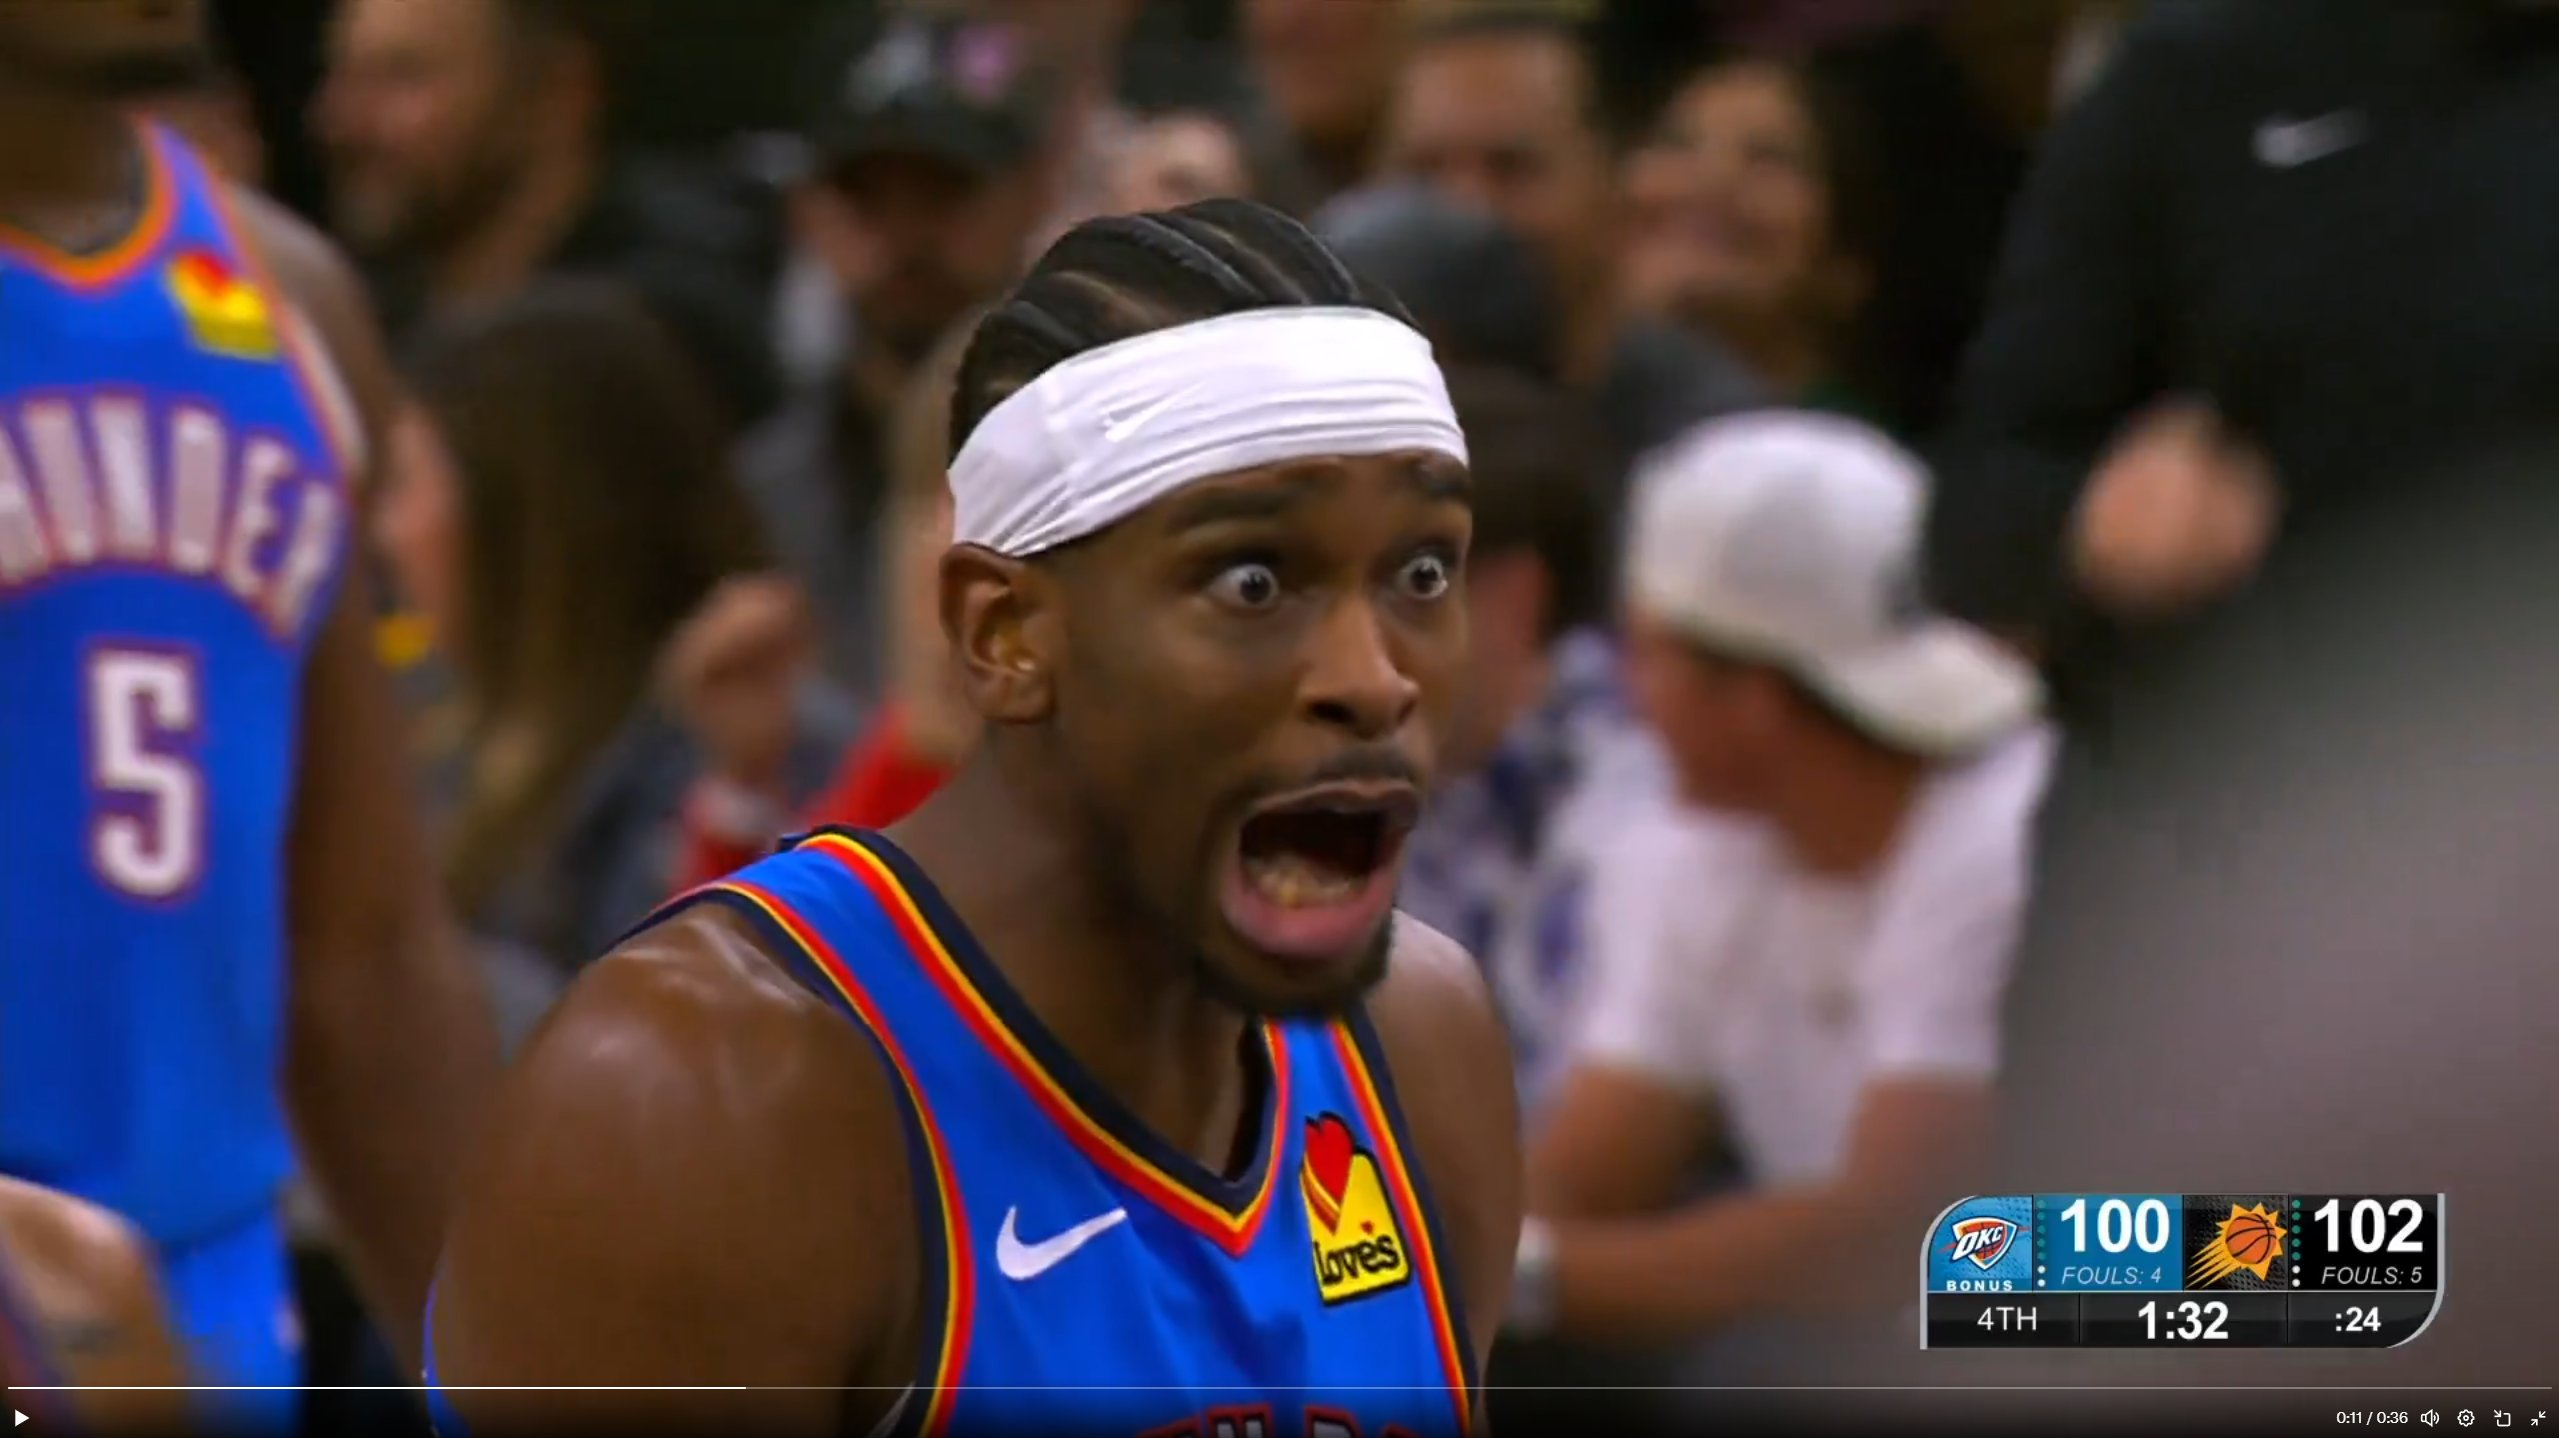
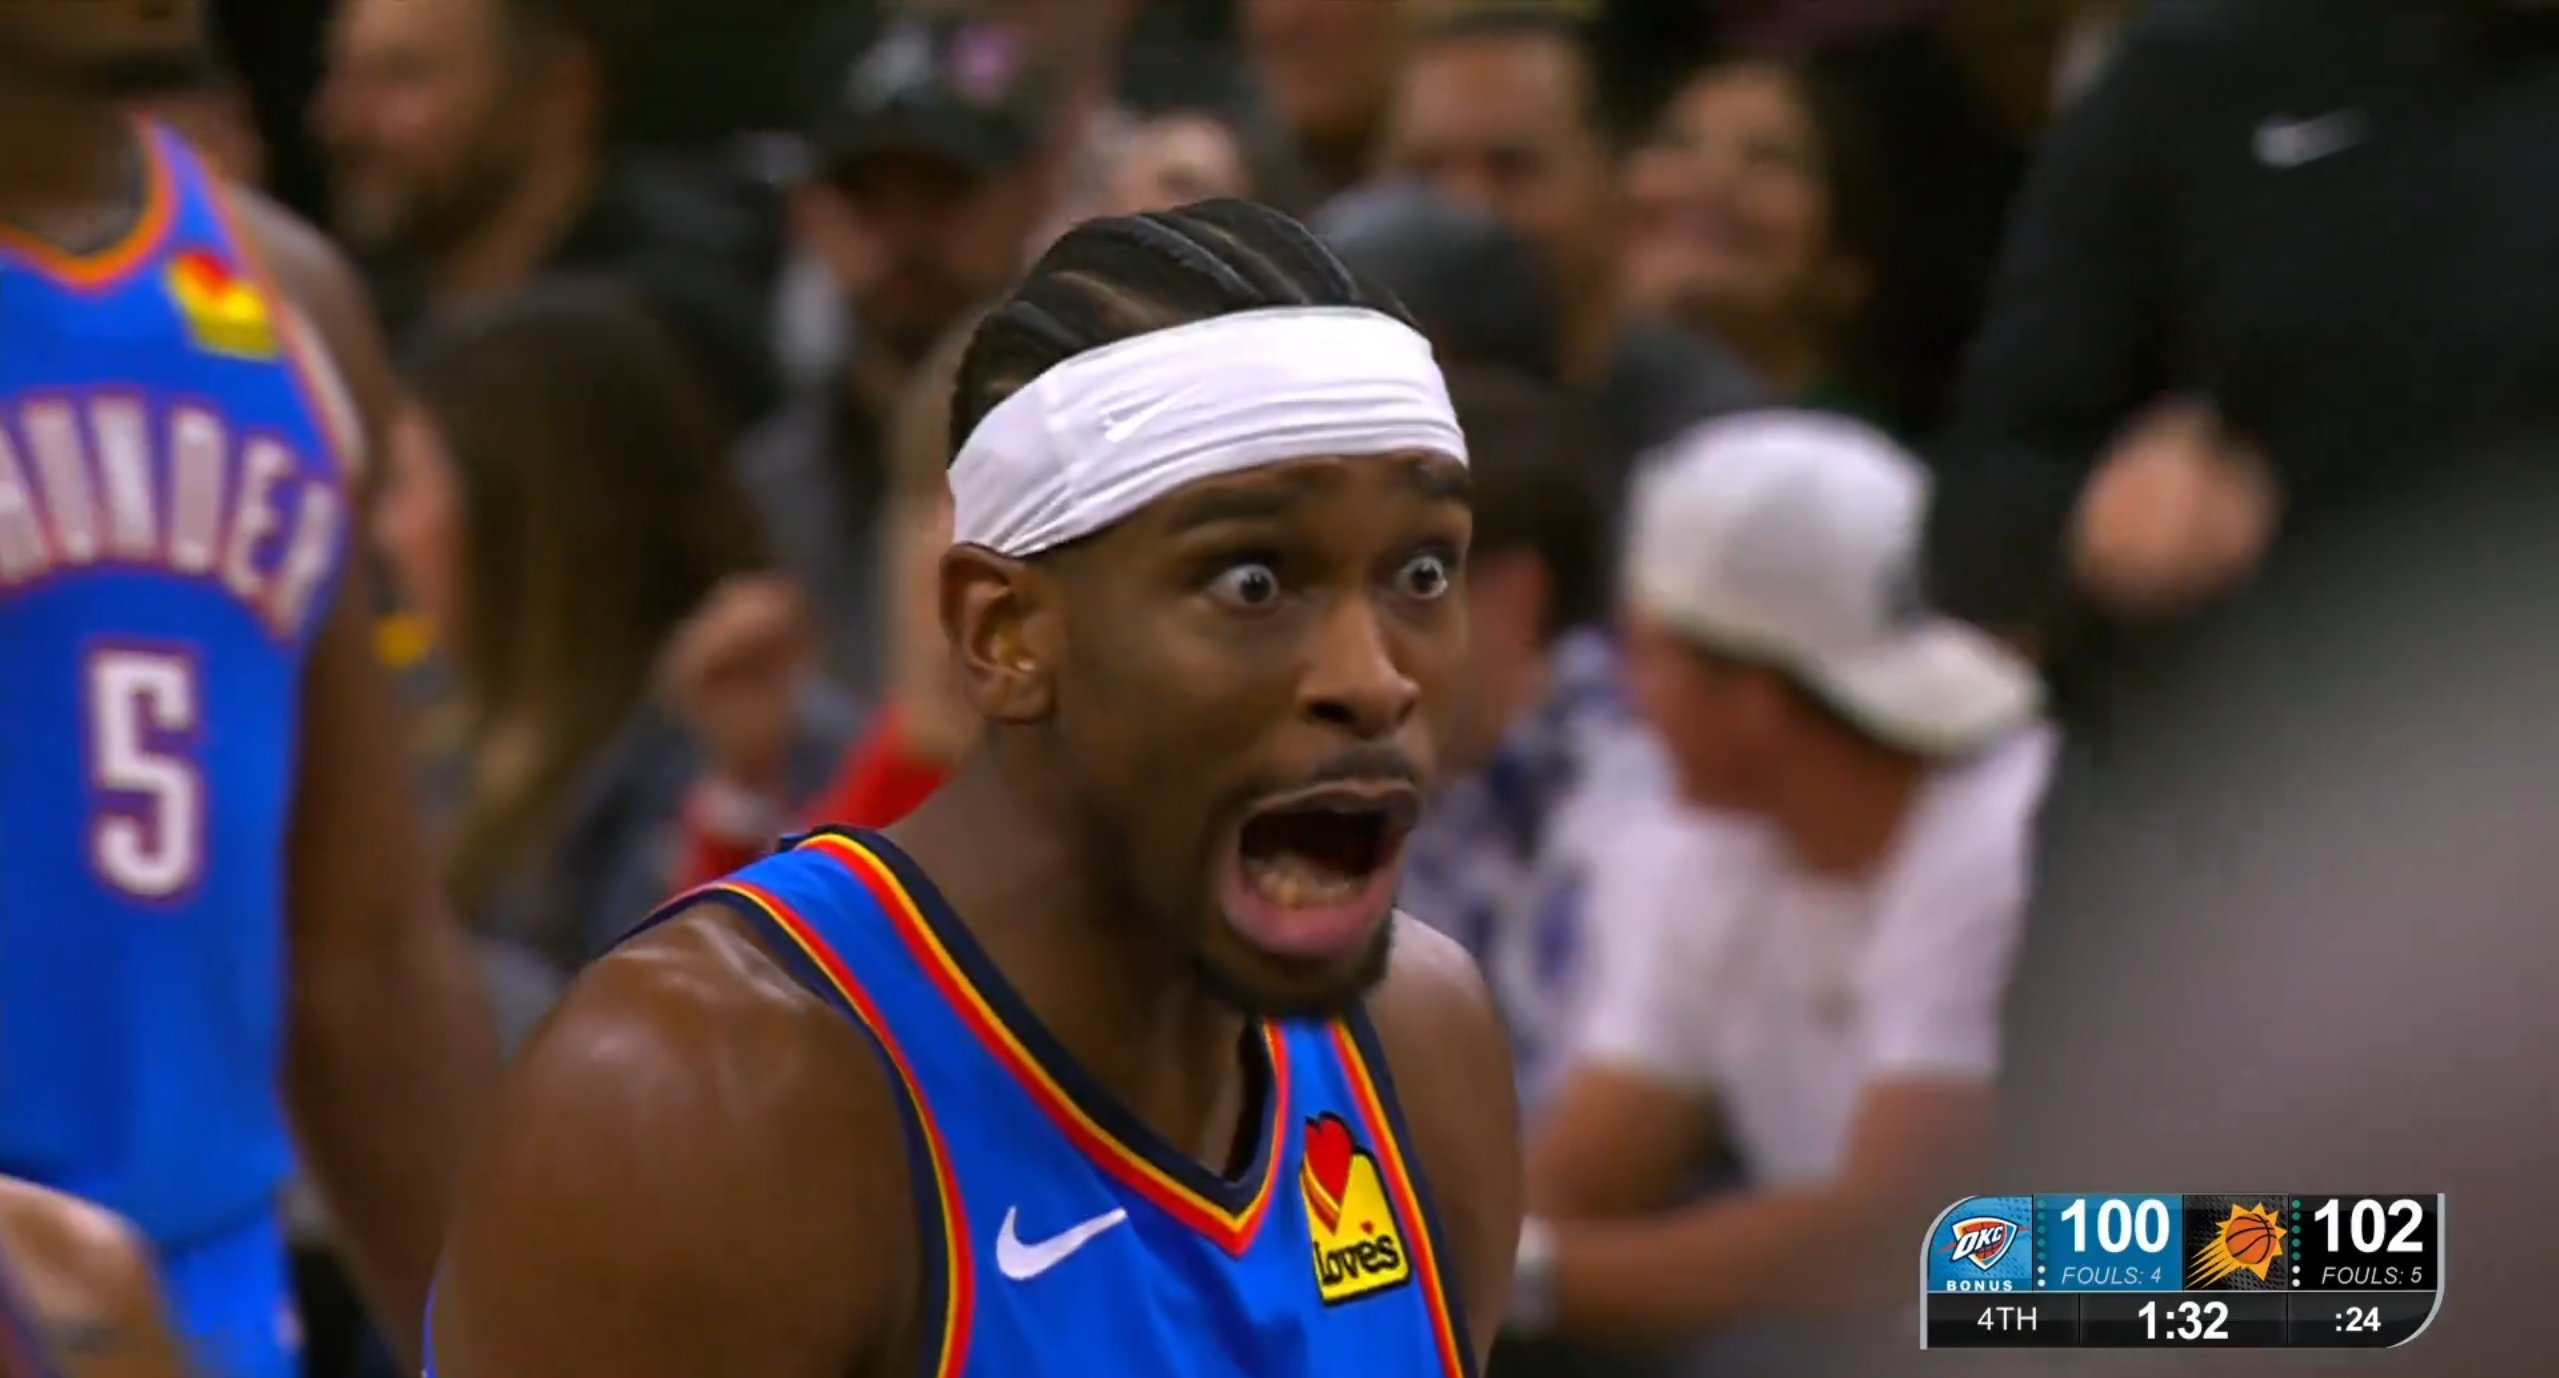
Single-window UI + faster cooldown + crop default image
- Webcam preview now overlays in the bottom-right of the main window instead of opening a second window
- Cooldown between detections dropped from 10s to 2s
- Async player teardown so the transition back to the default image isn't blocked by ffpyplayer thread shutdown
- Trim 60px off the bottom of default.png

diff --git a/main.py b/main.py
@@ -1,4 +1,5 @@
 import random
+import threading
 import time
 from pathlib import Path
 
@@ -17,10 +18,10 @@ VIDEO_EXTS = {'.mp4', '.mov', '.mkv', '.avi', '.webm', '.m4v'}
 
 DISPLAY_W, DISPLAY_H = 1600, 900
 WEBCAM_W, WEBCAM_H = 480, 360
-COOLDOWN = 10.0
+WEBCAM_MARGIN = 20
+COOLDOWN = 2.0
 
 MAIN_WINDOW = "SGA Flopping"
-WEBCAM_WINDOW = "Webcam preview"
 
 
 def draw_skeleton(img, landmarks):
@@ -32,6 +33,16 @@ def draw_skeleton(img, landmarks):
     for i, (x, y) in enumerate(pts):
         if landmarks[i].visibility > 0.3:
             cv2.circle(img, (x, y), 3, (0, 200, 255), -1)
+
+
+def overlay_webcam(canvas, preview):
+    ph, pw = preview.shape[:2]
+    ch, cw = canvas.shape[:2]
+    x = cw - pw - WEBCAM_MARGIN
+    y = ch - ph - WEBCAM_MARGIN
+    cv2.rectangle(canvas, (x - 2, y - 2), (x + pw + 1, y + ph + 1),
+                  (255, 255, 255), 2)
+    canvas[y:y + ph, x:x + pw] = preview
 
 
 def ensure_assets():
@@ -74,6 +85,12 @@ def pick_video(pool, last=None):
     return random.choice(choices)
 
 
+def close_player_async(player):
+    if player is None:
+        return
+    threading.Thread(target=player.close, daemon=True).start()
+
+
 def main():
     ensure_assets()
 
@@ -85,7 +102,7 @@ def main():
     print(f"Pool A (foul bait):  {len(pool_a)} videos in {POOL_A_DIR}")
     print(f"Pool B (free throw): {len(pool_b)} videos in {POOL_B_DIR}")
     print("Drop .mp4/.mov/.mkv files into those folders, then re-run if needed.")
-    print("Keys:  Q = quit  |  R = reset state  |  H = toggle webcam window")
+    print("Keys:  Q = quit  |  R = reset state  |  H = toggle webcam overlay")
 
     cap = cv2.VideoCapture(0, cv2.CAP_DSHOW)
     if not cap.isOpened():
@@ -100,12 +117,8 @@ def main():
 
     cv2.namedWindow(MAIN_WINDOW, cv2.WINDOW_NORMAL)
     cv2.resizeWindow(MAIN_WINDOW, DISPLAY_W, DISPLAY_H)
-    cv2.namedWindow(WEBCAM_WINDOW, cv2.WINDOW_NORMAL)
-    cv2.resizeWindow(WEBCAM_WINDOW, WEBCAM_W, WEBCAM_H)
     webcam_visible = True
 
-    # States: IDLE_A -> PLAYING_A -> COOLDOWN_TO_B1 -> IDLE_B1 -> PLAYING_B1
-    #      -> COOLDOWN_TO_B2 -> IDLE_B2 -> PLAYING_B2 -> COOLDOWN_TO_A -> IDLE_A
     state = "IDLE_A"
     state_entered = time.monotonic()
     player = None
@@ -147,6 +160,41 @@ def main():
                 rgb = cv2.cvtColor(frame, cv2.COLOR_BGR2RGB)
                 landmarks = pose.detect(rgb)
 
+            now = time.monotonic()
+
+            if state == "IDLE_A":
+                canvas = default_canvas.copy()
+                if shot.update(landmarks):
+                    start_video(pool_a, "A", "A")
+            elif state == "IDLE_B1":
+                canvas = default_canvas.copy()
+                if shot.update(landmarks):
+                    start_video(pool_b, "B1", "B")
+            elif state == "IDLE_B2":
+                canvas = default_canvas.copy()
+                if shot.update(landmarks):
+                    start_video(pool_b, "B2", "B")
+            elif playing:
+                vframe = player.get_frame()
+                if player.done:
+                    close_player_async(player)
+                    player = None
+                    label = state.split("_", 1)[1]
+                    transition_after_video(label)
+                    canvas = default_canvas.copy()
+                elif vframe is not None:
+                    canvas = fit_image(vframe, DISPLAY_W, DISPLAY_H)
+                else:
+                    canvas = default_canvas.copy()
+            elif state.startswith("COOLDOWN_TO_"):
+                canvas = default_canvas.copy()
+                if now - state_entered >= COOLDOWN:
+                    state = "IDLE_" + state[len("COOLDOWN_TO_"):]
+                    state_entered = now
+                    shot.reset()
+            else:
+                canvas = default_canvas.copy()
+
             if webcam_visible:
                 preview = frame.copy()
                 if landmarks is not None:
@@ -155,66 +203,24 @@ def main():
                 color = (0, 255, 0) if state.startswith("IDLE_") else (0, 200, 255)
                 cv2.putText(preview, state, (10, 25),
                             cv2.FONT_HERSHEY_SIMPLEX, 0.6, color, 2)
-                cv2.imshow(WEBCAM_WINDOW, preview)
+                overlay_webcam(canvas, preview)
 
-            now = time.monotonic()
-
-            if state == "IDLE_A":
-                cv2.imshow(MAIN_WINDOW, default_canvas)
-                if shot.update(landmarks):
-                    start_video(pool_a, "A", "A")
-
-            elif state == "IDLE_B1":
-                cv2.imshow(MAIN_WINDOW, default_canvas)
-                if shot.update(landmarks):
-                    start_video(pool_b, "B1", "B")
-
-            elif state == "IDLE_B2":
-                cv2.imshow(MAIN_WINDOW, default_canvas)
-                if shot.update(landmarks):
-                    start_video(pool_b, "B2", "B")
-
-            elif playing:
-                vframe = player.get_frame()
-                if player.done:
-                    player.close()
-                    player = None
-                    label = state.split("_", 1)[1]
-                    transition_after_video(label)
-                    cv2.imshow(MAIN_WINDOW, default_canvas)
-                elif vframe is not None:
-                    cv2.imshow(MAIN_WINDOW, fit_image(vframe, DISPLAY_W, DISPLAY_H))
-                else:
-                    cv2.imshow(MAIN_WINDOW, default_canvas)
-
-            elif state.startswith("COOLDOWN_TO_"):
-                cv2.imshow(MAIN_WINDOW, default_canvas)
-                if now - state_entered >= COOLDOWN:
-                    state = "IDLE_" + state[len("COOLDOWN_TO_"):]
-                    state_entered = now
-                    shot.reset()
+            cv2.imshow(MAIN_WINDOW, canvas)
 
             key = cv2.waitKey(1) & 0xFF
             if key == ord('q'):
                 break
             elif key == ord('r'):
-                if player:
-                    player.close()
-                    player = None
+                close_player_async(player)
+                player = None
                 state = "IDLE_A"
                 state_entered = time.monotonic()
                 shot.reset()
                 print("[reset] back to IDLE_A")
             elif key == ord('h'):
                 webcam_visible = not webcam_visible
-                if not webcam_visible:
-                    cv2.destroyWindow(WEBCAM_WINDOW)
-                else:
-                    cv2.namedWindow(WEBCAM_WINDOW, cv2.WINDOW_NORMAL)
-                    cv2.resizeWindow(WEBCAM_WINDOW, WEBCAM_W, WEBCAM_H)
     finally:
-        if player:
-            player.close()
+        close_player_async(player)
         cap.release()
         cv2.destroyAllWindows()
 

diff --git a/README.md b/README.md
@@ -2,7 +2,7 @@
 
 A webcam app that watches for a basketball shooting motion and plays a video. Built for a bit about Shai Gilgeous-Alexander's foul-baiting → free-throw routine.
 
-While idle, it shows a default image. Throw a shooting motion → it plays a random "foul bait" clip. Wait ten seconds, motion again → it plays a "free throw" clip. One more shot → another free throw. Then it loops back to foul bait.
+While idle, it shows a default image. Throw a shooting motion → it plays a random "foul bait" clip. Wait two seconds, motion again → it plays a "free throw" clip. One more shot → another free throw. Then it loops back to foul bait.
 
 ## How it works
 
@@ -18,9 +18,9 @@ The detector picks whichever arm has higher landmark visibility on a given frame
 **State machine.**
 
 ```
-IDLE_A     --shot-->  PLAYING_A   --video ends-->  10s cooldown
-IDLE_B1    --shot-->  PLAYING_B1  --video ends-->  10s cooldown
-IDLE_B2    --shot-->  PLAYING_B2  --video ends-->  10s cooldown  -->  back to IDLE_A
+IDLE_A     --shot-->  PLAYING_A   --video ends-->  2s cooldown
+IDLE_B1    --shot-->  PLAYING_B1  --video ends-->  2s cooldown
+IDLE_B2    --shot-->  PLAYING_B2  --video ends-->  2s cooldown  -->  back to IDLE_A
 ```
 
 Pool A is the foul-bait clips; Pool B is the free-throw clips. The same Pool B video won't play twice in a row when there are multiple choices.
@@ -44,10 +44,7 @@ Then run:
 python main.py
 ```
 
-Two windows open:
-
-- **SGA Flopping** — 1600×900 main display (shows the default image, or the current video)
-- **Webcam preview** — 480×360, with the skeleton overlay and current state in the corner
+A single 1600×900 window opens (titled **SGA Flopping**) that shows the default image, or the current video. A 480×360 webcam preview with the skeleton overlay and current state label is composited into the bottom-right corner so you can see yourself frame up while filming the rest of the screen.
 
 ## Controls
 
@@ -55,7 +52,7 @@ Two windows open:
 | --- | ------ |
 | `Q` | Quit |
 | `R` | Reset to `IDLE_A` |
-| `H` | Toggle the webcam preview window |
+| `H` | Toggle the webcam overlay |
 
 ## Tuning
 
@@ -70,7 +67,7 @@ The cooldown is `COOLDOWN` at the top of `main.py`.
 
 ## Files
 
-- `main.py` — camera loop, state machine, windows, controls
+- `main.py` — camera loop, state machine, window + overlay, controls
 - `pose_detector.py` — MediaPipe wrapper + shot-motion state machine
 - `media_player.py` — `ffpyplayer` wrapper for video + audio playback
 - `assets/default.png` — shown while idle